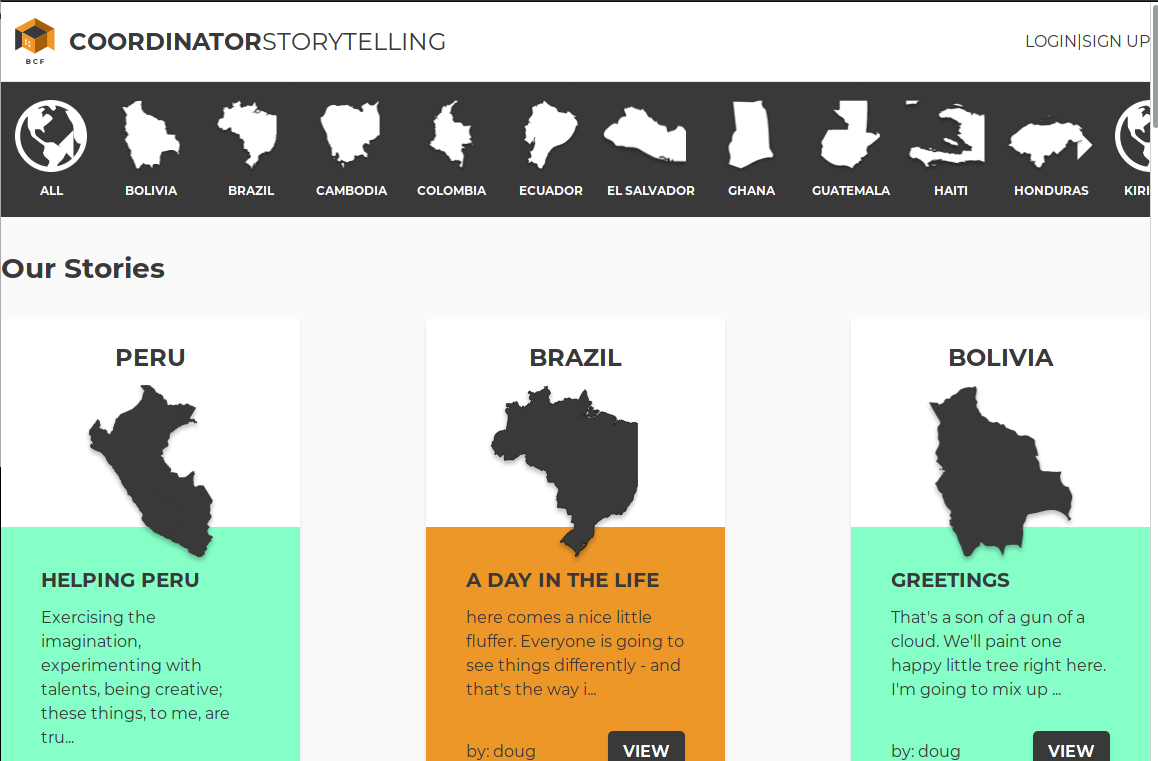
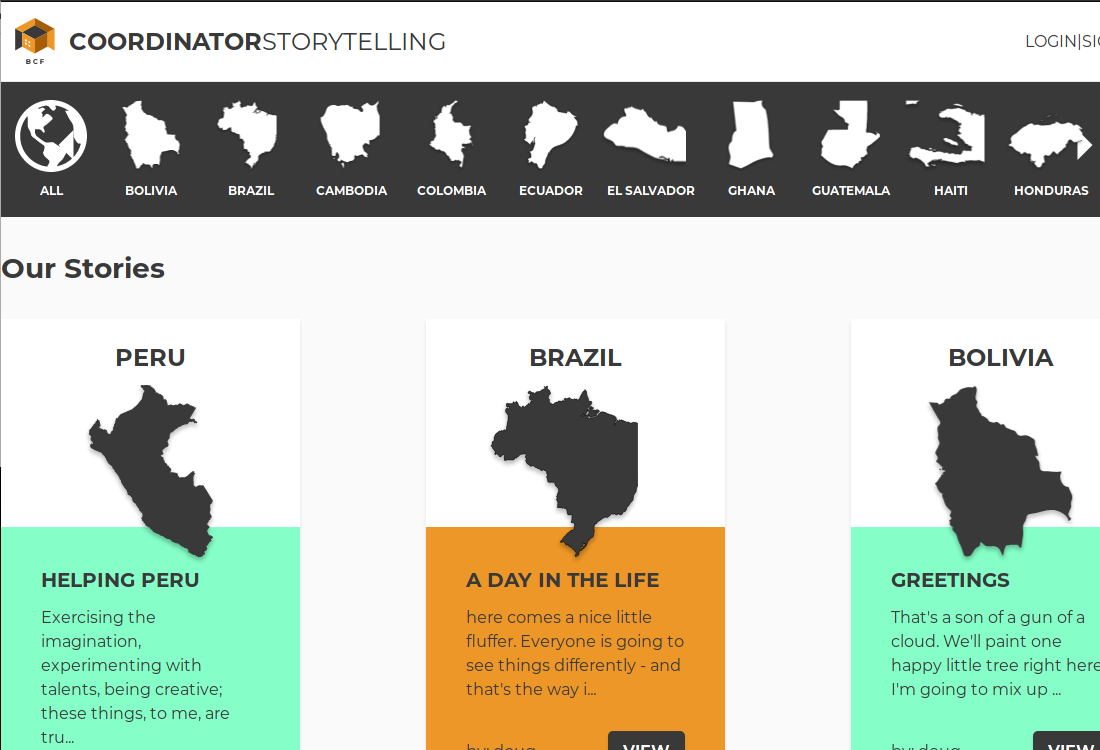
more cleanups

diff --git a/src/components/css/about.css b/src/components/css/about.css
@@ -3,12 +3,11 @@
     background-color: rgb(250, 250, 250);
     color: rgba(0,0,0,.9);
     width: 100%;
-    min-height: 500px;
     display: grid;
     align-items: center;
     justify-items: center;
     grid-template-columns: 1fr;
-    padding: 20px 10px;
+    padding: 100px 50px;
 }
 
 #abouttext {
@@ -18,23 +17,4 @@
 
 #bigText {
     font-size: 1.5em;
-}
-
-@media(max-width: 750px){
-    .about {
-        width: 100%;
-        display: flex;
-        flex-direction: column;
-        justify-content: center;
-        min-height: 450px;
-        box-sizing: border-box;
-    }
-
-    #abouttext {
-        color: red;
-    }
-    
-    #bigText {
-        font-size: 1.5em;
-    }
 }

diff --git a/src/components/css/content.css b/src/components/css/content.css
@@ -2,7 +2,6 @@
     background-color: rgb(253, 253, 253);
     color: rgb(5,5,5);
     width: 100%;
-    padding: 10px;
 }
 
 .skills h3 {
@@ -14,7 +13,7 @@
 .blurbHolder {
     display: flex;
     flex-wrap: wrap;
-    padding: 20px 0px;
+    padding: 30px 40px 60px 40px;
 }
 
 .blurb {
@@ -22,6 +21,7 @@
     flex-direction: column;
     justify-content: center;
     align-items: center;
+    font-size: 0.8em;
     justify-content: space-between;
     background-color: rgba(0, 0, 0, 0.021);
     border: 1px solid rgb(0,0,0,.1);

diff --git a/src/components/css/projects.css b/src/components/css/projects.css
@@ -20,8 +20,9 @@
     border-radius: 5px;
     border: 2px solid rgba(255,255,255,.025);
     box-sizing: border-box;
-    display: flex;
-    flex-direction: column;
+    display: grid;
+    grid-template-columns: 1fr;
+    grid-template-rows: 50% 12.5% 37.5%;
 }
 
 .projCard #title {
@@ -49,12 +50,8 @@
 
 .projCard #img {
     width: 100%;
-    height: 100%;
     height: fit-content;
     overflow: hidden;
-    display: flex;
-    align-items: center;
-    justify-content: center;
 }
 
 .projCard img {

diff --git a/src/components/css/contact.css b/src/components/css/contact.css
@@ -2,7 +2,7 @@
     box-sizing: border-box;
     position: absolute;
     width: 100%;
-    background-color: rgba(0,0,0,.6);
+    background-color: rgba(0,0,0,.8);
     z-index: -2;
     border-bottom: 3px solid rgba(0, 0, 0, 0.89);
 }
@@ -90,7 +90,7 @@
     height: 65px;
     width: 100%;
     box-sizing: border-box;
-    background-color: rgba(0,0,0,.6);
+    background-color: rgba(0,0,0,.8);
 }
 
 #contactHeader {

diff --git a/src/components/css/footer.css b/src/components/css/footer.css
@@ -4,8 +4,9 @@
     align-items: flex-end;
     box-sizing: border-box;
     padding: 15px 25px;
-    min-height: 75px;
+    min-height: 50px;
     width: 100%;
+    font-size: 0.75em;
 }
 
 .footer div {
